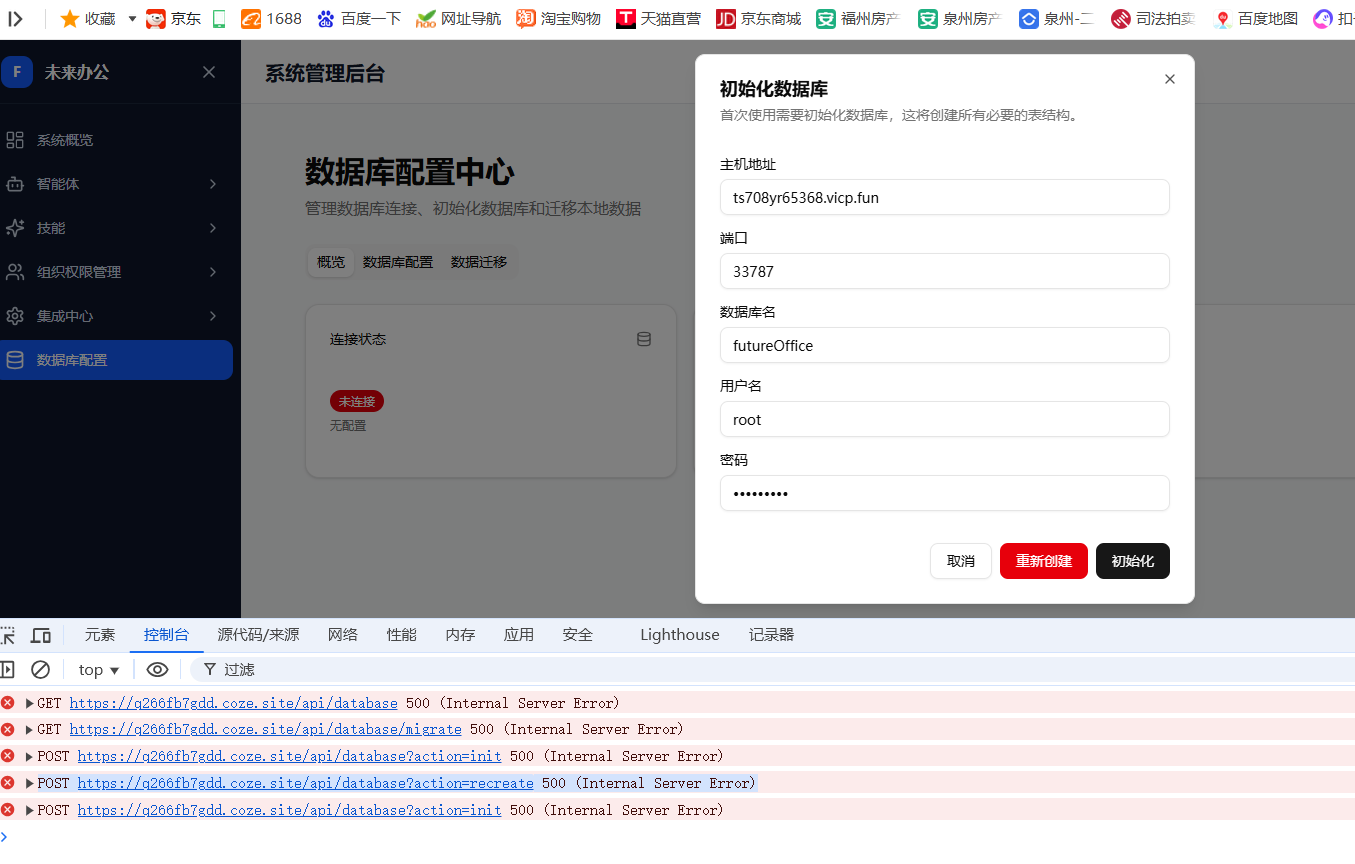
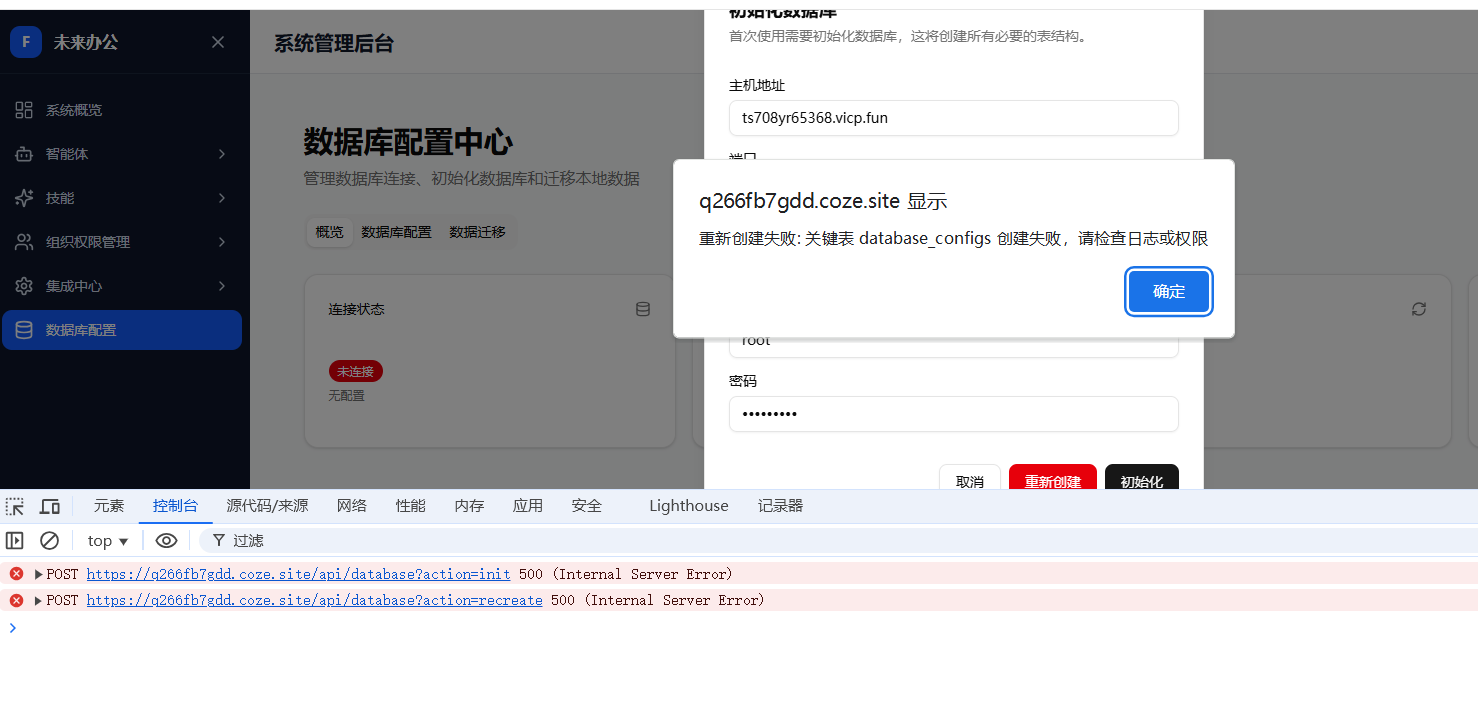
fix(database): 增强数据库初始化日志和错误提示
- 添加详细的日志输出，记录每条 SQL 的执行结果
- 添加成功/失败语句计数
- 改进前端错误提示，显示失败/成功语句数量
- 添加 SHOW TABLES 查询结果的日志输出

Changed region(s): [[0.0, 0.0, 1.0, 0.9606], [0.217, 0.4028, 0.279, 0.5887], [0.248, 0.3718, 0.279, 0.4028]]

diff --git a/src/app/api/database/route.ts b/src/app/api/database/route.ts
@@ -55,35 +55,48 @@ export async function POST(request: NextRequest) {
         .filter((s: string) => s && !s.startsWith('--'));
 
       const failedStatements: { sql: string; error: string }[] = [];
+      const successCount: { sql: string }[] = [];
+
+      console.log(`[init] 开始执行 ${statements.length} 条 SQL 语句`);
 
       for (const statement of statements) {
         if (!statement) continue;
         try {
           await tempPool.query(statement);
+          successCount.push({ sql: statement.substring(0, 60) });
+          console.log(`[init] SQL 执行成功: ${statement.substring(0, 60)}...`);
         } catch (err) {
           const error = err instanceof Error ? err.message : String(err);
-          console.warn('执行SQL失败:', error);
-          console.warn('SQL:', statement.substring(0, 100));
+          console.warn('[init] 执行SQL失败:', error);
+          console.warn('[init] SQL:', statement.substring(0, 100));
           failedStatements.push({ sql: statement, error });
         }
       }
 
+      console.log(`[init] SQL 执行完成: 成功 ${successCount.length} 条, 失败 ${failedStatements.length} 条`);
+
       // 检查关键表是否创建成功
       try {
+        console.log('[init] 检查 database_configs 表是否存在...');
         const [rows] = await tempPool.query("SHOW TABLES LIKE 'database_configs'");
+        console.log('[init] SHOW TABLES 结果:', JSON.stringify(rows));
         if (!Array.isArray(rows) || rows.length === 0) {
           await tempPool.end();
+          console.error('[init] database_configs 表不存在');
           return NextResponse.json(
             {
               success: false,
               error: '关键表 database_configs 创建失败，请检查日志或权限',
-              failedStatements: failedStatements.slice(0, 3), // 只返回前3个错误
+              failedStatements: failedStatements.slice(0, 3),
+              successCount: successCount.length,
             },
             { status: 500 }
           );
         }
+        console.log('[init] database_configs 表已创建');
       } catch (err) {
         await tempPool.end();
+        console.error('[init] 验证表失败:', err);
         return NextResponse.json(
           {
             success: false,
@@ -184,19 +197,23 @@ export async function POST(request: NextRequest) {
         if (!statement) continue;
         try {
           await tempPool.query(statement);
+          console.log(`[recreate] SQL 执行成功: ${statement.substring(0, 60)}...`);
         } catch (err) {
           const error = err instanceof Error ? err.message : String(err);
-          console.warn('执行SQL失败:', error);
-          console.warn('SQL:', statement.substring(0, 100));
+          console.warn('[recreate] 执行SQL失败:', error);
+          console.warn('[recreate] SQL:', statement.substring(0, 100));
           failedStatements.push({ sql: statement, error });
         }
       }
 
       // 检查关键表是否创建成功
       try {
+        console.log('[recreate] 检查 database_configs 表是否存在...');
         const [rows] = await tempPool.query("SHOW TABLES LIKE 'database_configs'");
+        console.log('[recreate] SHOW TABLES 结果:', JSON.stringify(rows));
         if (!Array.isArray(rows) || rows.length === 0) {
           await tempPool.end();
+          console.error('[recreate] database_configs 表不存在');
           return NextResponse.json(
             {
               success: false,
@@ -206,8 +223,10 @@ export async function POST(request: NextRequest) {
             { status: 500 }
           );
         }
+        console.log('[recreate] database_configs 表已创建');
       } catch (err) {
         await tempPool.end();
+        console.error('[recreate] 验证表失败:', err);
         return NextResponse.json(
           {
             success: false,

diff --git a/src/app/admin/database/page.tsx b/src/app/admin/database/page.tsx
@@ -194,10 +194,13 @@ export default function DatabaseConfigPage() {
       } else {
         let errorMessage = '重新创建失败: ' + data.error;
         if (data.failedStatements && data.failedStatements.length > 0) {
-          errorMessage += '\n\n失败的SQL语句：\n' +
+          errorMessage += `\n\n失败 ${data.failedStatements.length} 条 SQL:\n` +
             data.failedStatements.map((fs: any, i: number) =>
-              `${i + 1}. ${fs.error}\n   ${fs.sql.substring(0, 80)}...`
+              `${i + 1}. ${fs.error}\n   ${fs.sql.substring(0, 100)}...`
             ).join('\n\n');
+        }
+        if (data.successCount !== undefined) {
+          errorMessage += `\n\n成功 ${data.successCount} 条 SQL`;
         }
         alert(errorMessage);
       }
